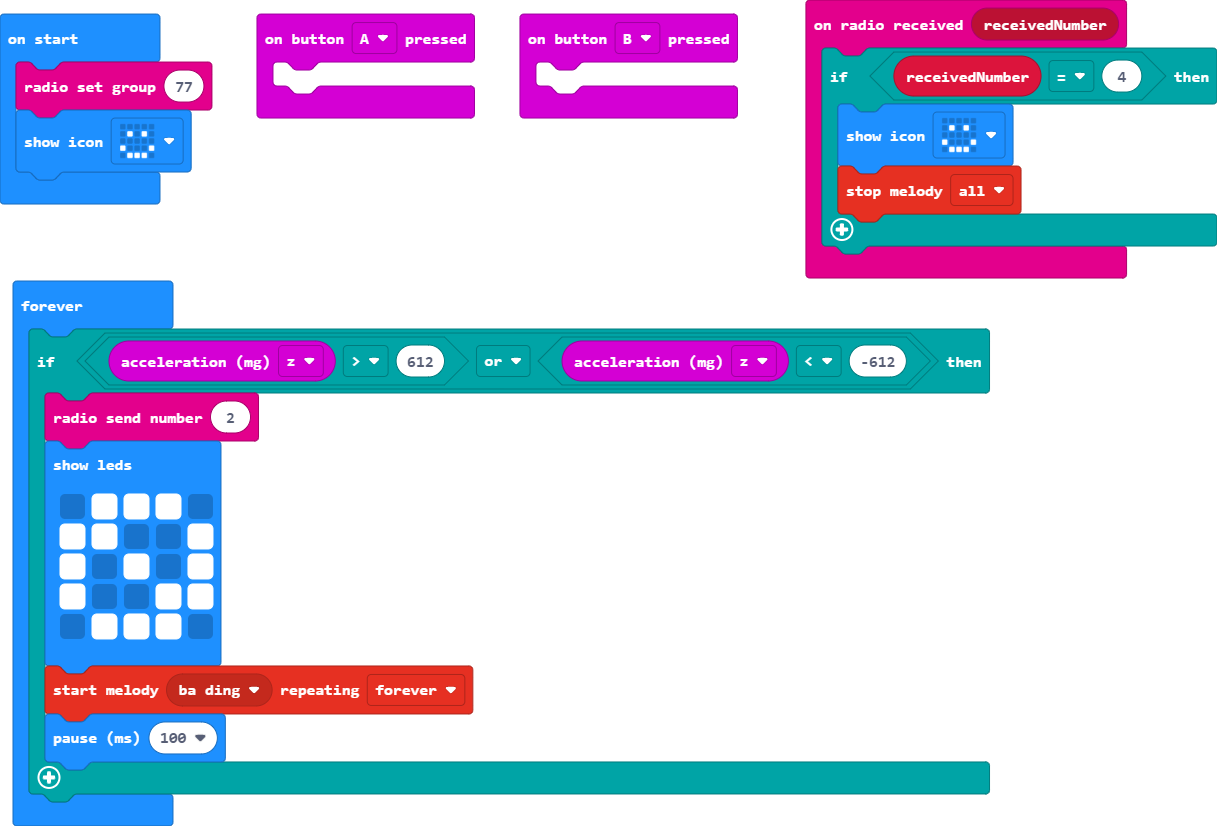
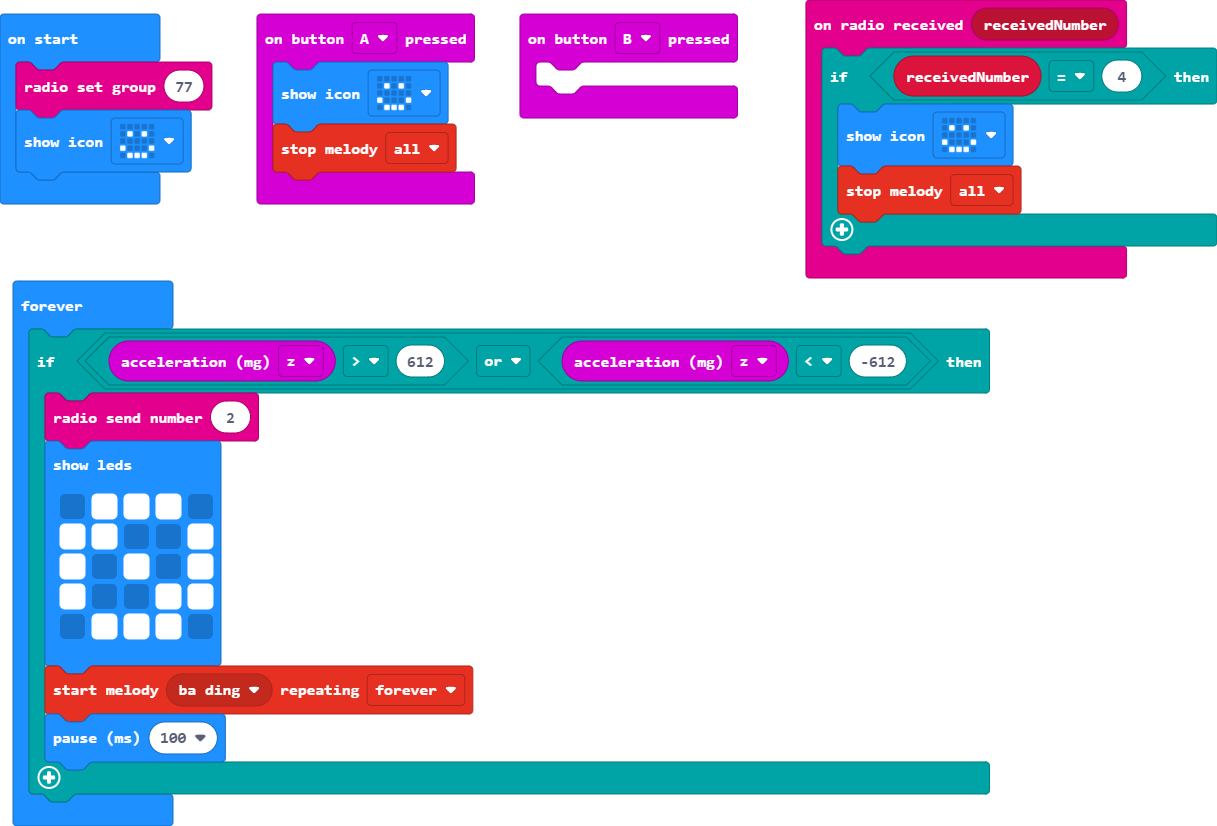
Update main.blocks, main.ts

Changed region(s): [[0.1873, 0.0605, 0.4059, 0.2724]]

diff --git a/main.ts b/main.ts
@@ -5,7 +5,8 @@ radio.onReceivedNumber(function (receivedNumber) {
     }
 })
 input.onButtonPressed(Button.A, function () {
-	
+    basic.showIcon(IconNames.Happy)
+    music.stopMelody(MelodyStopOptions.All)
 })
 input.onButtonPressed(Button.B, function () {
 	
